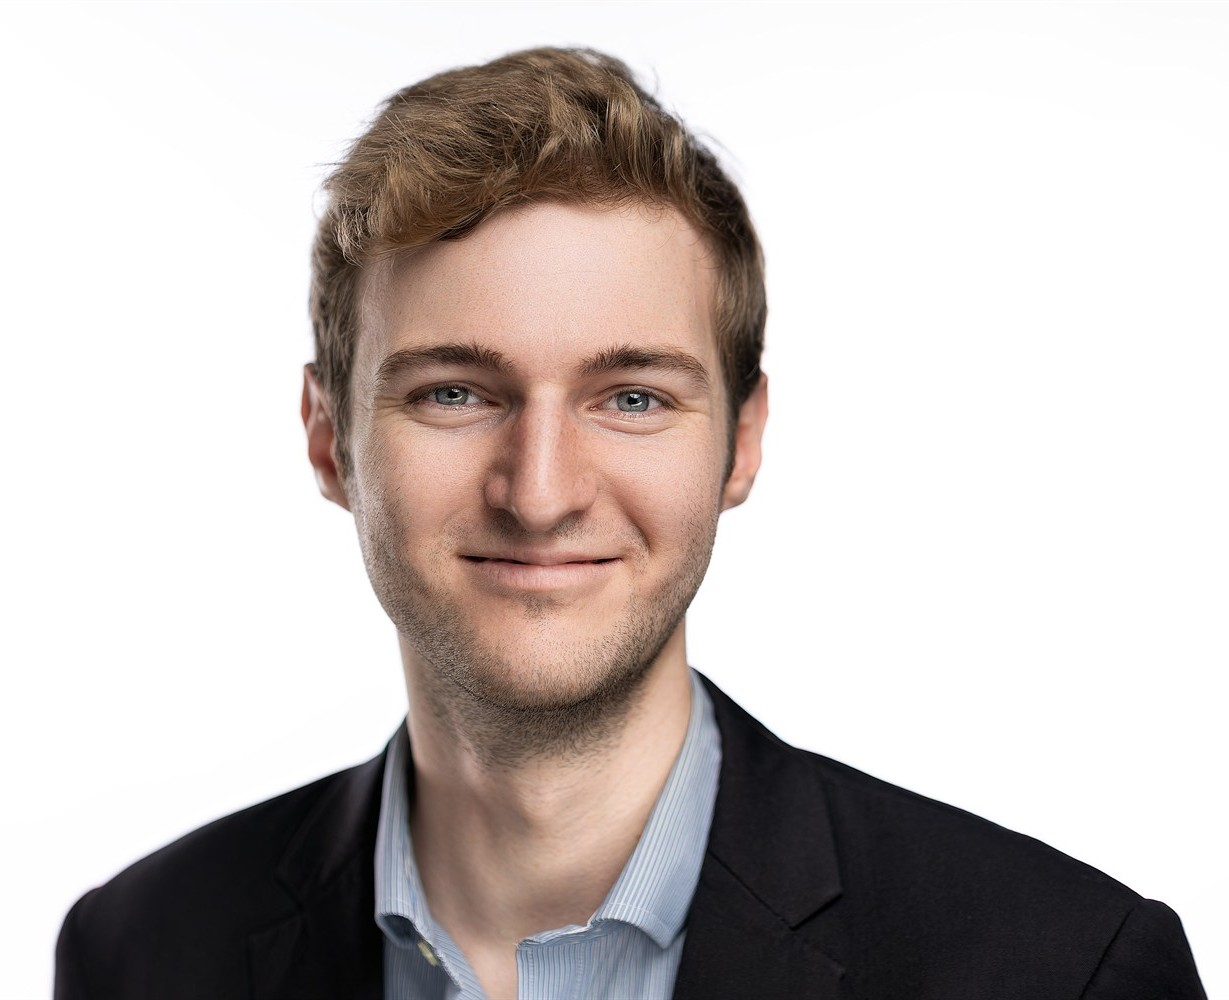
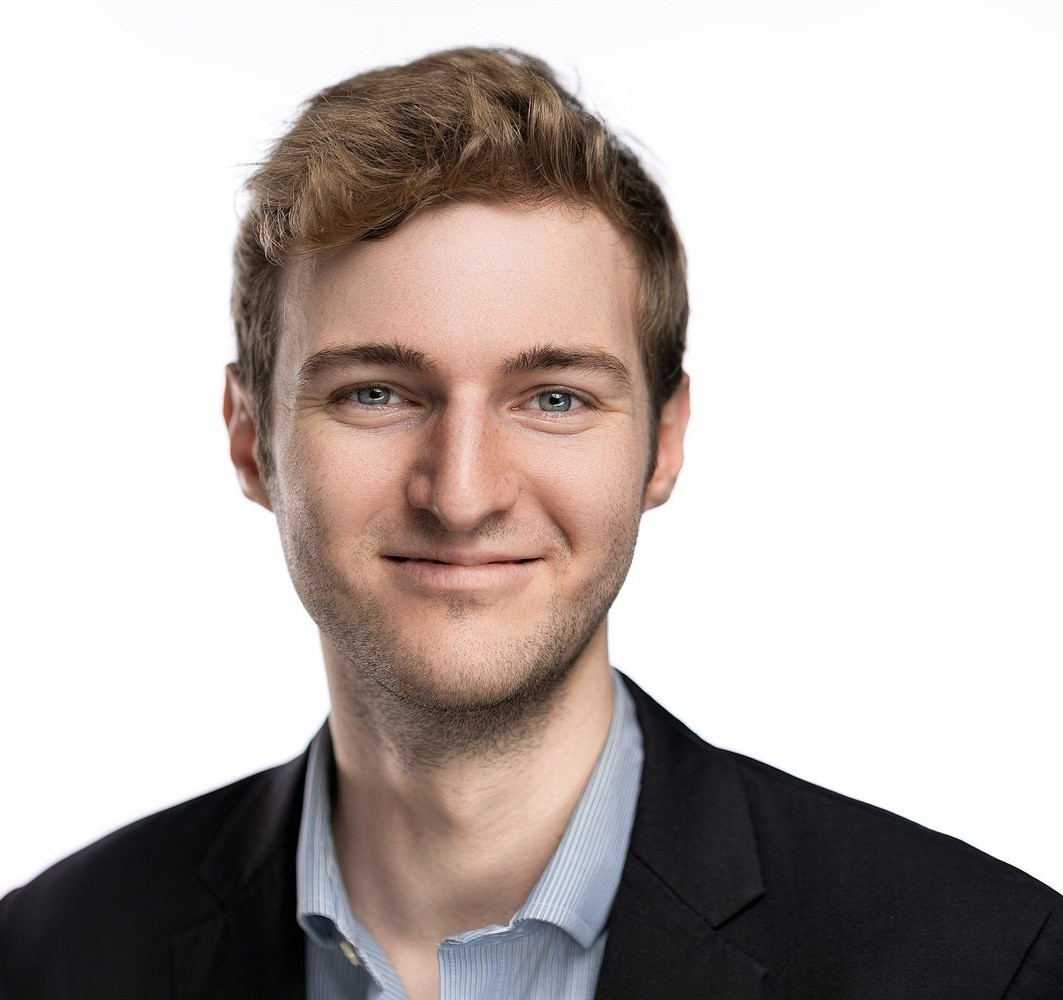
Cap headshot height to match text; cache-bust updated image

Changed region(s): [[0.0, 0.031, 1.0, 1.0], [0.6519, 0.899, 0.683, 0.93]]

diff --git a/index.html b/index.html
@@ -61,8 +61,8 @@
    <div class="row justify-content-between">
       <div class="col-lg-5">
          <!-- <h3 class="text-left section_top"> Daniel Evans </h3> -->
-                  <img src="images/daniel.evans.headshot.jpg?v=2" alt="Daniel Evans"
-     style="width: 100%; height: auto; object-fit: cover; margin-bottom: 1em;">
+                  <img src="images/daniel.evans.headshot.jpg?v=3" alt="Daniel Evans"
+     style="width: auto; height: auto; max-height: 340px; max-width: 100%; object-fit: cover; margin-bottom: 1em;">
                   <table>
                          <tr>
                            <td > <b>CV:</b></td>
